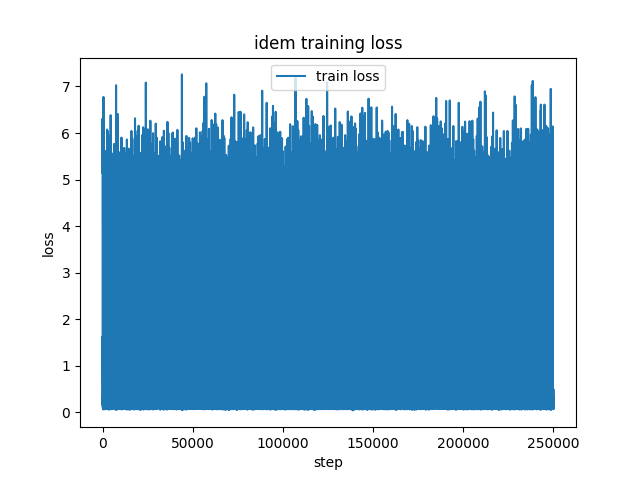
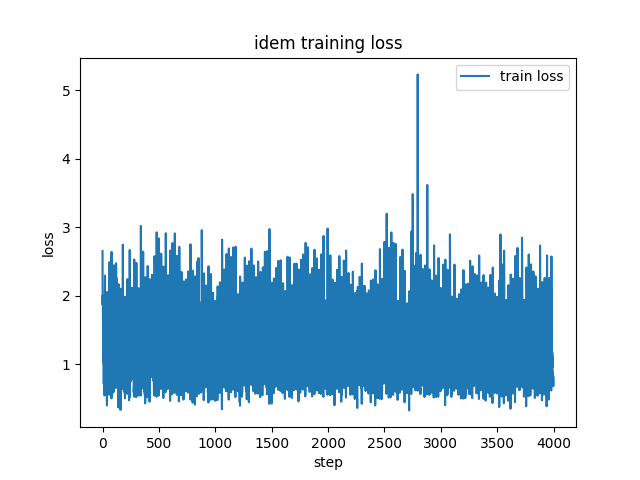
add IDEM

diff --git a/mcjax/process/losses.py b/mcjax/process/losses.py
@@ -106,10 +106,10 @@ class IDEMLoss(BaseLoss):
         loss: scalar, the average MSE between S_K(x_t, t) and s_theta(x_t, t).
         """
         # Draw a batch of x0 ∼ buffer
-        key, sub = jr.split(key)
-        x0,key = self.buffer.sample(sub, batch_size)    # shape: (B, d, ...)
+        x0,key = self.buffer.sample(key, batch_size)    # shape: (B, d, ...)
 
         # Sample t ∼ Uniform(0,1) for each x0 in the batch
+        key,sub = jr.split(key)
         t = jr.uniform(sub, shape=(batch_size,), minval=0.0, maxval=1.0)  # → (B,)
 
         # Form x_t = x0 + sigma_t * eps, where σ_t = sigma_fn(t)

diff --git a/mcjax/process/algo.py b/mcjax/process/algo.py
@@ -512,8 +512,8 @@ class IDEMAlgorithm(BaseAlgorithm):
         target = self.target_dist
 
         def score_fn(params, k, y):
-            t_continuous = k * (self.ou.K - 1)  # Scale to [0, K-1]
-            batch_t = jnp.full((y.shape[0],), t_continuous, dtype=jnp.float32)
+            batch_t = k * self.ou.K  # Scale to [0, K]
+            # batch_t = jnp.full((y.shape[0],), t_continuous, dtype=jnp.float32)
             nn1, nn2 = self.model.apply(params, y, batch_t)
 
             if condition == 'none':
